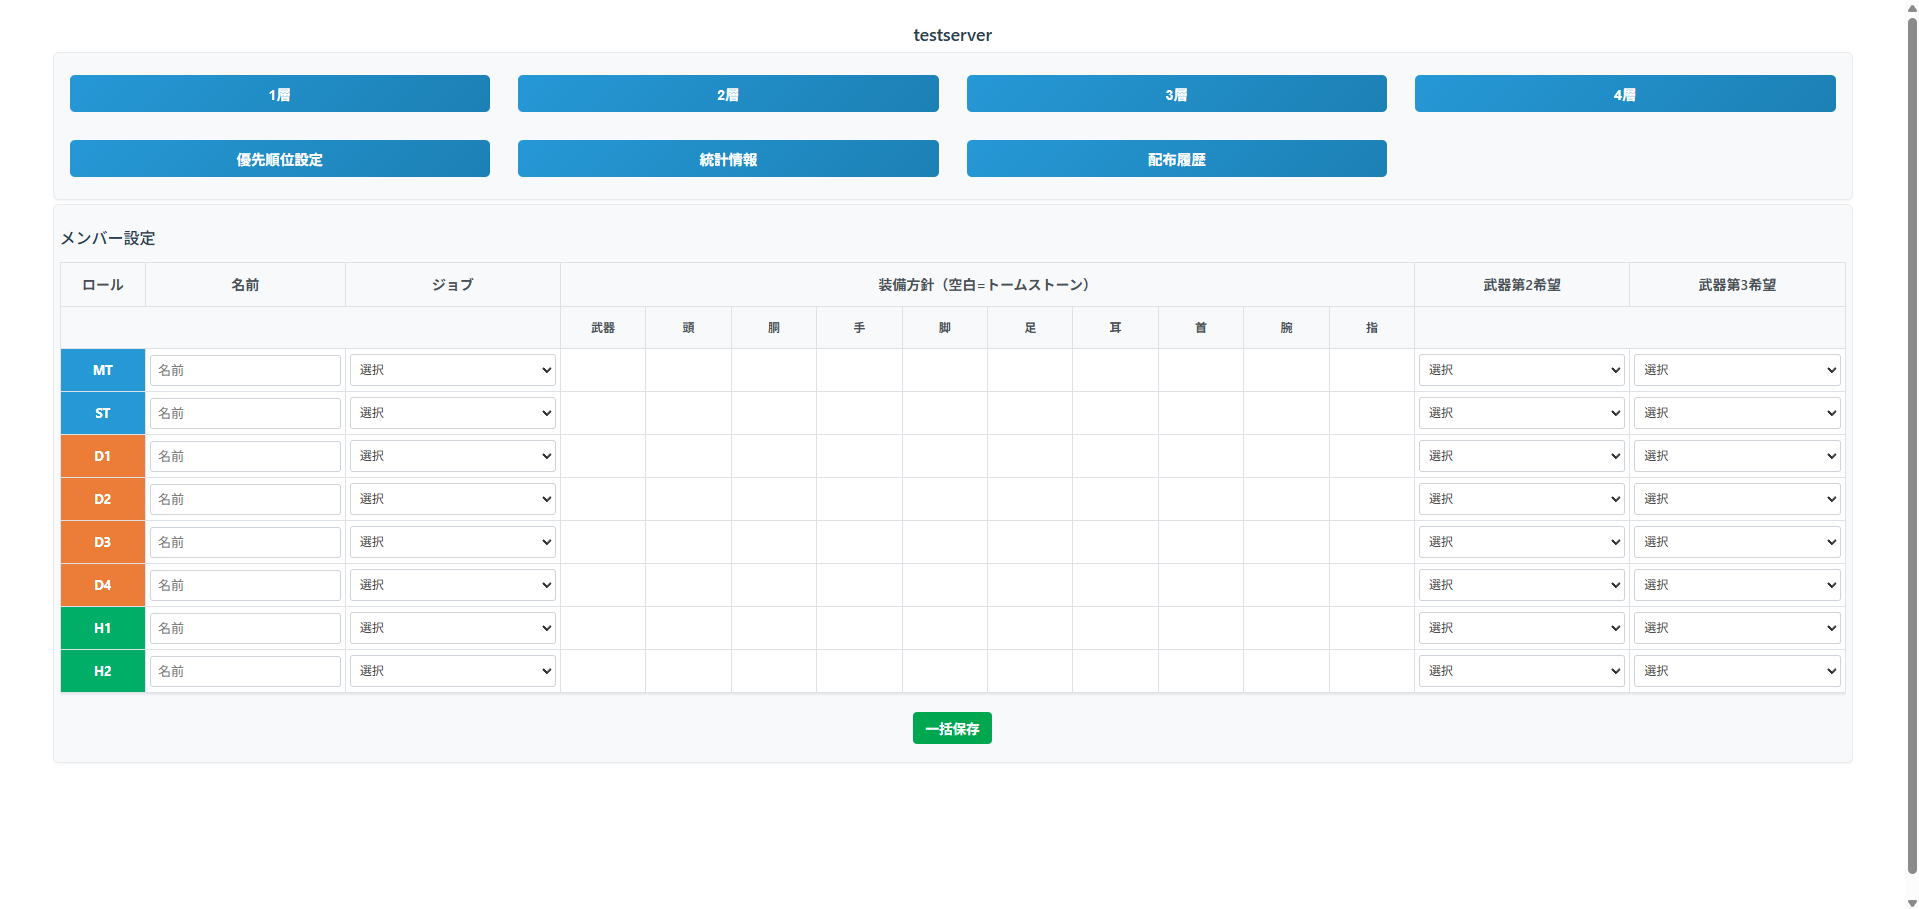
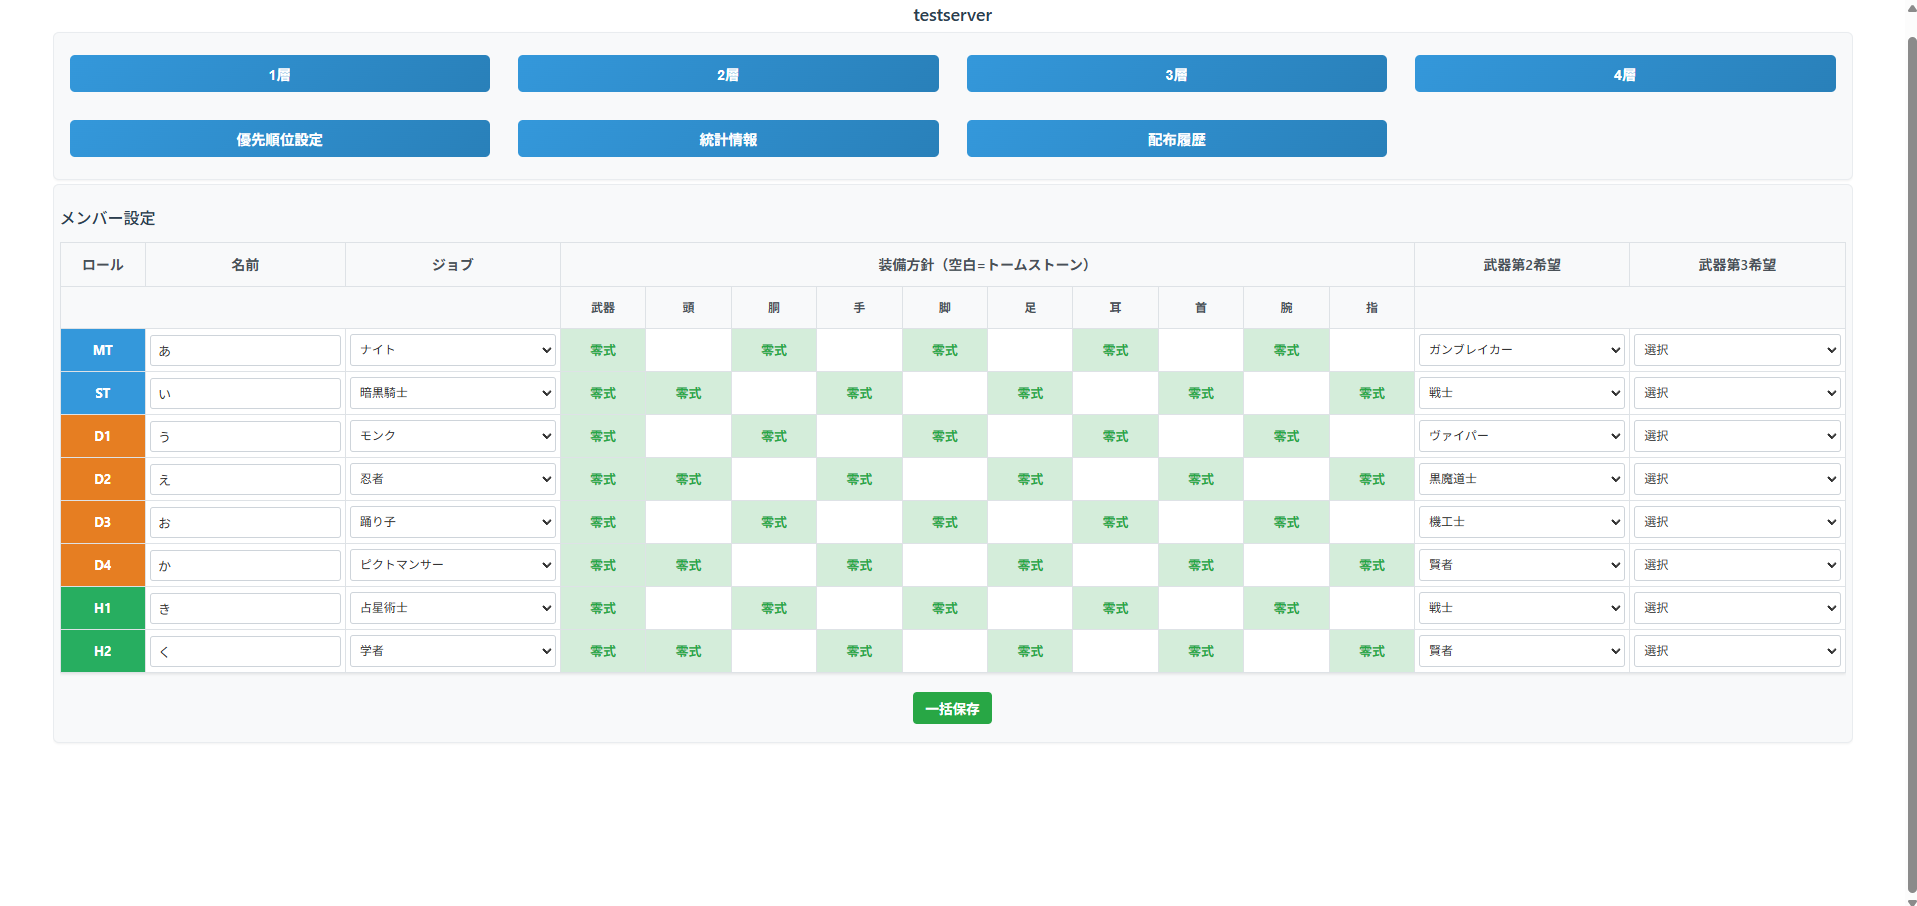
修正: ジョブ変更時の武器希望リセット機能を追加
ジョブ変更時にweaponWishesが自動的にリセットされるように修正。
これにより、攻略ジョブを変更した際に以前のジョブの武器希望が
誤って表示される問題を解決。

変更内容:
- dashboard.js: ジョブ変更検出ロジックを追加
- SS/toppage1.png: 最新の画面状態に更新

🎮 Generated with [Claude Code](https://claude.com/claude-code)

diff --git a/js/modules/dashboard.js b/js/modules/dashboard.js
@@ -184,16 +184,19 @@ async function saveIntegratedMemberData() {
                     equipmentPolicy[slot] = cell?.classList.contains('policy-raid') ? '零式' : 'トームストーン';
                 }
 
+                // 既存データがある場合は保持
+                const existingPlayer = window.appData.players[window.currentRaidTier.id]?.[position] || {};
+
+                // ジョブ変更を検出
+                const jobChanged = existingPlayer.job && existingPlayer.job !== job;
+
                 // 武器希望の収集
                 const weaponWishes = [
                     job, // 第一希望は必ずメインジョブ
-                    weapon2Select?.value || '',
-                    weapon3Select?.value || '',
+                    jobChanged ? '' : (weapon2Select?.value || ''),
+                    jobChanged ? '' : (weapon3Select?.value || ''),
                     '' // 第四希望は省略
                 ];
-
-                // 既存データがある場合は保持
-                const existingPlayer = window.appData.players[window.currentRaidTier.id]?.[position] || {};
 
                 players[position] = {
                     name,
